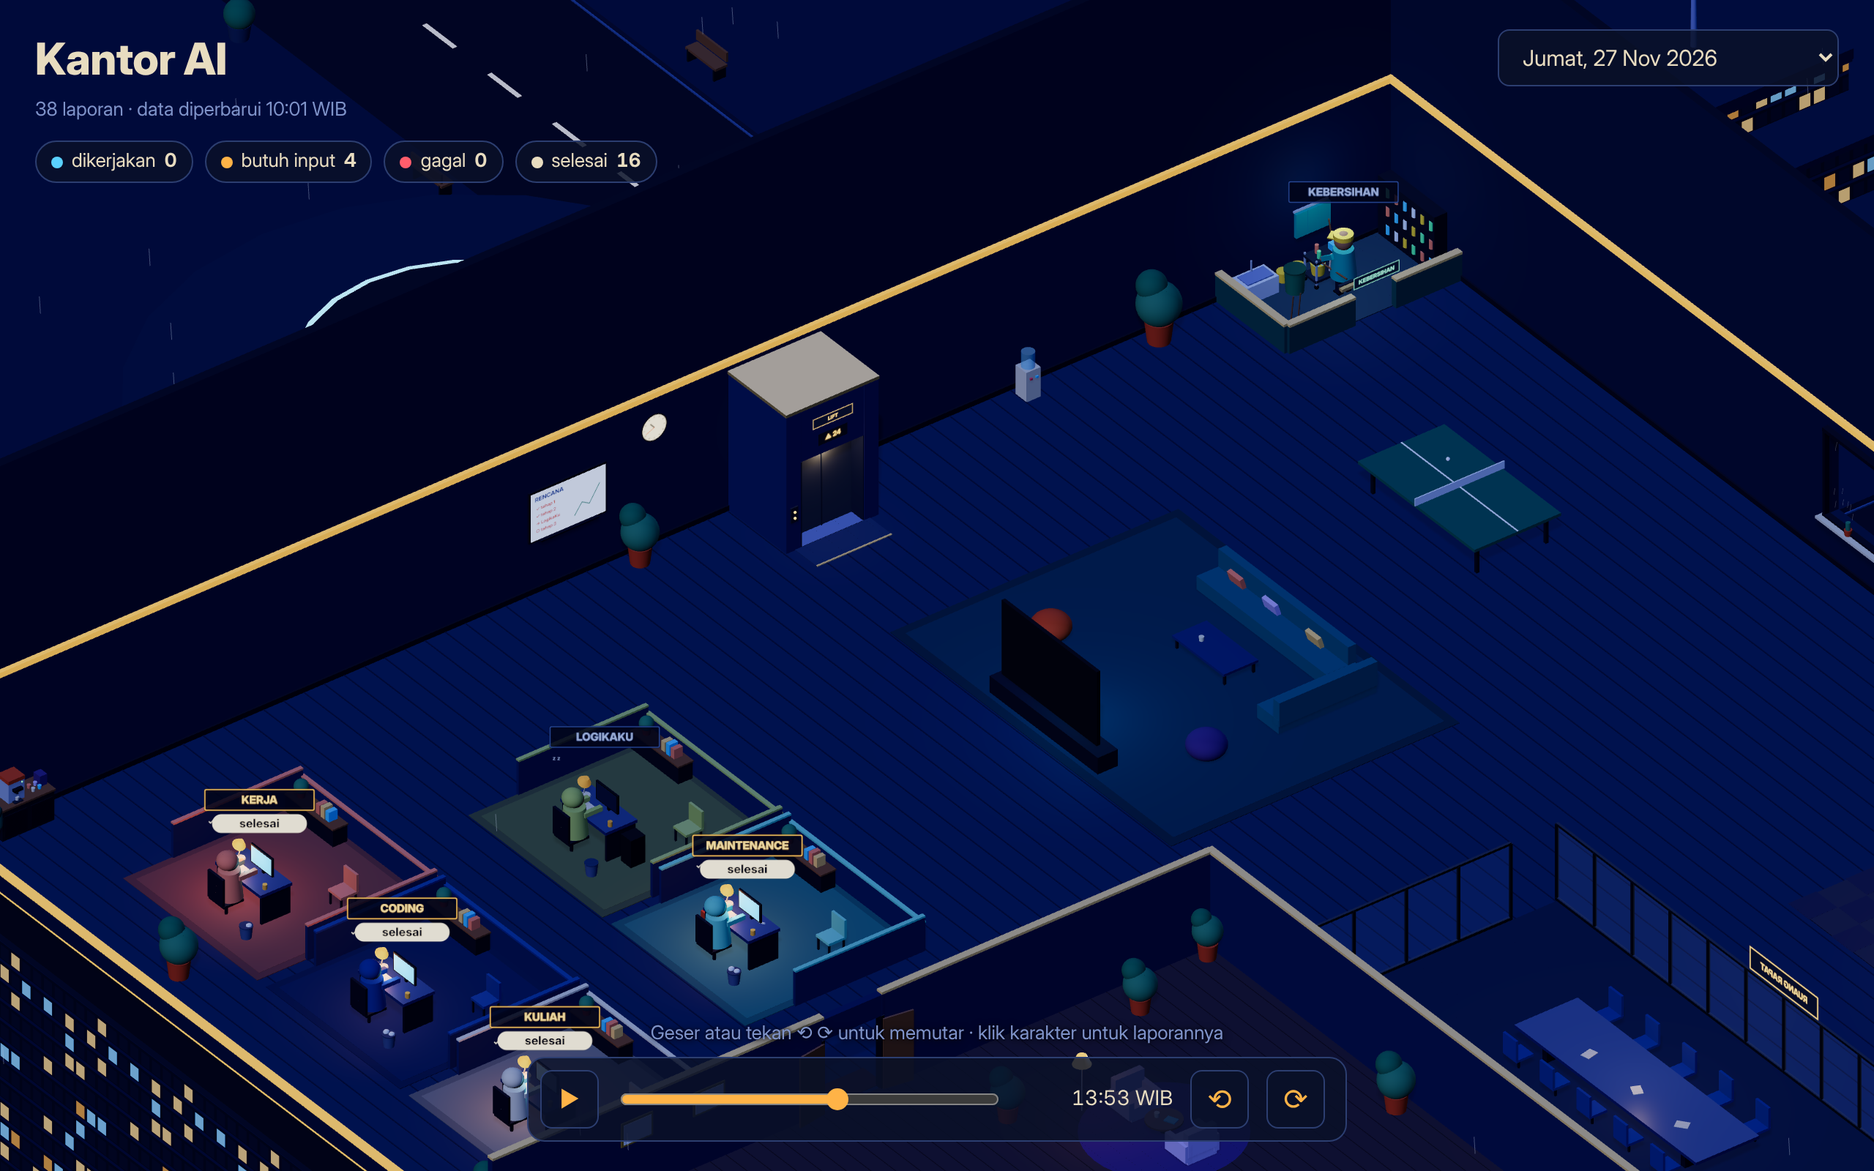
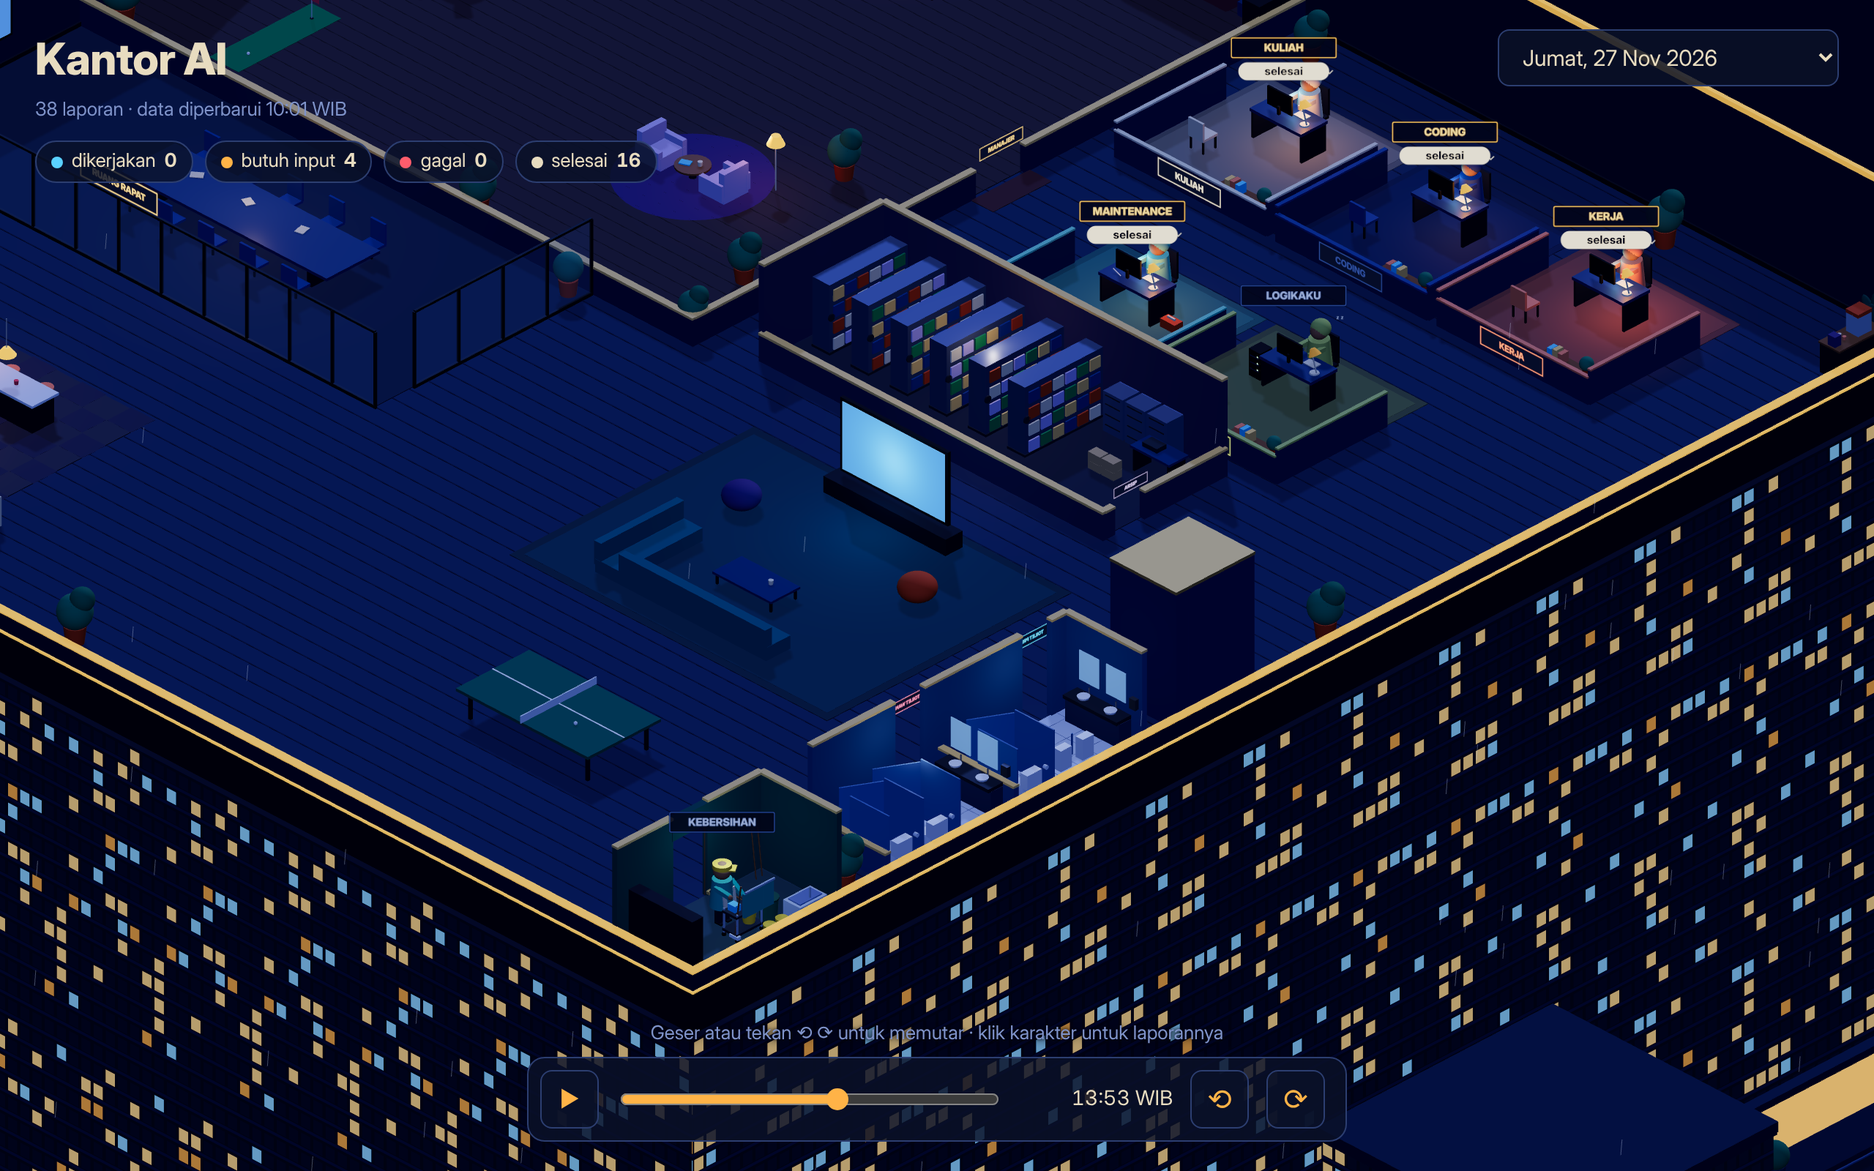
Kantor 3D: ruang arsip, toilet pria dan wanita, kota lebih padat dengan tempat parkir
Claude-Session: https://claude.ai/code/session_01TC1644zEPKkg35o3o8SKGe

diff --git a/kantor/app.js b/kantor/app.js
@@ -179,7 +179,7 @@ function bangunKota(lebar, dalam, dinding, r) {
   bola(0.18, mMerah, 0, 6.1, 0, antena); lampuAtap.push(mMerah);
 
   // ---- jalan: blok 19 x 19 dengan jalan selebar 8 di antaranya
-  const P = 62, N = 3, BATAS = (N + 0.5) * P, B = P - 8; // blok B x B, jalan selebar 8
+  const P = 62, N = 4, BATAS = (N + 0.5) * P, B = P - 8; // blok B x B, jalan selebar 8
   kotak(1000, 1, 1000, mat(0x161d38, { r: 1 }), 0, TANAH - 0.5, 0); // aspal
   const mTrotoar = mat(0x232c4f, { r: 0.95 });
   const mMarka = mat(0xe8dcc0, { e: 0xe8dcc0, ei: 0.25 });
@@ -442,30 +442,103 @@ function bangunKota(lebar, dalam, dinding, r) {
     kotak(4.4, 0.08, 0.6, mTiang, 0, -1.25, 0.3, g, false); // jalan servis
     for (const s of [-1.4, 0, 1.4]) bola(0.1, mLampuJalan, s, 1.3, 0.35, g); // lampu sorot
   }
+  // ---- tempat parkir: aspal, garis petak, mobil terparkir, pos jaga dengan palang, rambu P, lampu
+  const garisParkir = [], mobilParkir = [];
+  const mAspalParkir = mat(0x1c2340, { r: 1 });
+  const tandaP = teksturKanvas(128, 128, (c, w, h) => {
+    c.fillStyle = '#2f6fd6'; c.fillRect(0, 0, w, h);
+    c.strokeStyle = '#ffffff'; c.lineWidth = 8; c.strokeRect(8, 8, w - 16, h - 16);
+    c.fillStyle = '#ffffff'; c.font = `800 92px ${FONT}`; c.textAlign = 'center'; c.textBaseline = 'middle'; c.fillText('P', w / 2, h / 2 + 4);
+  });
+  const mTandaP = new THREE.MeshStandardMaterial({ map: tandaP, emissive: 0xffffff, emissiveMap: tandaP, emissiveIntensity: 0.6, side: THREE.DoubleSide });
+  /** Lahan parkir w x d berpusat di (x, z); baris petak sejajar sumbu x. */
+  function parkir(x, z, w, d) {
+    const y = TANAH + 0.25;
+    kotak(w, 0.05, d, mAspalParkir, x, y + 0.02, z, scene, false).receiveShadow = true;
+    const x0 = x - w / 2 + 2.2, x1 = x + w / 2 - 2.2;
+    let zr = z - d / 2 + 3.2, baris = 0;
+    while (zr + 2.5 < z + d / 2 - 1) {
+      const hadap = baris % 2 === 0 ? 1 : -1; // baris berpasangan saling membelakangi
+      for (let xs = x0; xs <= x1 + 0.01; xs += 2.6) {
+        garisParkir.push([xs, zr, 0.12, 4.8]);
+        if (xs + 2.6 <= x1 + 0.01 && r() < 0.68) mobilParkir.push([xs + 1.3, zr - hadap * 0.2, hadap > 0 ? 0 : Math.PI, warnaMobil[Math.floor(r() * warnaMobil.length)]]);
+      }
+      garisParkir.push([(x0 + x1) / 2, zr - hadap * 2.4, x1 - x0, 0.12]); // garis ujung petak
+      zr += baris % 2 === 0 ? 5 : 6.6; baris++;
+    }
+    // pos jaga dan palang di pintu masuk
+    const px = x + w / 2 - 2, pz = z + d / 2 - 1.6;
+    kotak(1.6, 2.2, 1.4, 0xe8dcc0, px, y + 1.1, pz);
+    kotak(1.8, 0.15, 1.6, 0x2f6fd6, px, y + 2.28, pz);
+    kotak(1.0, 0.7, 0.05, mat(0xfff2d0, { e: 0xfff2d0, ei: 0.8 }), px - 0.2, y + 1.5, pz + 0.72, scene, false);
+    kotak(0.25, 1.0, 0.25, 0x2a3242, px - 1.4, y + 0.5, pz + 0.2);
+    for (let i = 0; i < 6; i++) kotak(0.55, 0.12, 0.12, i % 2 ? 0xffffff : 0xff3b4a, px - 1.7 - i * 0.55, y + 1.0, pz + 0.2, scene, false); // palang
+    // rambu P dan lampu penerang
+    tabung(0.06, 0.06, 3.2, mTiang, x - w / 2 + 1.2, y + 1.6, z + d / 2 - 1.2);
+    const pl = new THREE.Mesh(new THREE.PlaneGeometry(1.1, 1.1), mTandaP); pl.position.set(x - w / 2 + 1.2, y + 3.4, z + d / 2 - 1.15); scene.add(pl);
+    for (const [sx, sz] of [[-0.3, -0.3], [0.3, 0.3], [-0.3, 0.3], [0.3, -0.3]]) {
+      const lx = x + sx * w, lz = z + sz * d;
+      tabung(0.07, 0.09, 5, mTiang, lx, y + 2.5, lz);
+      bola(0.22, mLampuJalan, lx, y + 5.1, lz);
+      const sn = new THREE.Mesh(new THREE.CircleGeometry(3.2, 20), mSinar);
+      sn.rotation.x = -Math.PI / 2; sn.position.set(lx, y + 0.08, lz); scene.add(sn);
+    }
+  }
+
   // blok ritel: dua minimarket di satu sisi, gedung kecil di sisi lain, reklame di pojok
-  const RITEL = new Map([[`1,0`, 0], [`0,1`, 1], [`1,1`, 2], [`-1,0`, 3], [`0,-1`, 4], [`2,-1`, 5], [`-1,2`, 6], [`-2,-2`, 7], [`2,2`, 8], [`-2,1`, 9]]);
+  const RITEL = new Map([[`1,0`, 0], [`0,1`, 1], [`1,1`, 2], [`-1,0`, 3], [`0,-1`, 4], [`2,-1`, 5], [`-1,2`, 6], [`-2,-2`, 7], [`2,2`, 8], [`-2,1`, 9], [`3,0`, 10], [`0,3`, 11], [`-3,-1`, 12]]);
+  // blok yang seluruhnya tempat parkir
+  const PARKIR = new Set([`1,-1`, `-1,1`, `2,0`, `0,2`, `-2,0`, `3,2`, `-3,3`, `2,-3`]);
   for (let i = -N; i <= N; i++) for (let j = -N; j <= N; j++) {
     if (i === 0 && j === 0) continue; // blok menara kantor
     const cx = i * P, cz = j * P;
+    if (PARKIR.has(`${i},${j}`)) { parkir(cx, cz, B - 3, B - 3); continue; }
     if (RITEL.has(`${i},${j}`)) {
       const v = RITEL.get(`${i},${j}`);
       // sisi toko menghadap jalan yang paling dekat kamera bawaan (+x/+z) bila mungkin
       const sx = (v % 2 === 0) ? 1 : -1;
       for (const [i2, dz] of [[0, -14], [1, 0], [2, 14]]) minimarket(cx + sx * (B / 2 - 5), cz + dz, sx, 0, v * 3 + i2);
-      for (const sz of [-1, 1]) gedung(cx - sx * 12, cz + sz * 12, 18 + r() * 4, 18 + r() * 4);
+      // parkir kecil di depan deretan toko, gedung di sisi lain
+      parkir(cx + sx * 4, cz, 13, B - 6);
+      for (const sz of [-1, 1]) gedung(cx - sx * 15, cz + sz * 12, 16 + r() * 3, 18 + r() * 4);
       const pz = v % 3 === 0 ? -1 : 1;
       reklame(cx + sx * (B / 2 - 1.6), cz + pz * (B / 2 - 1.6), Math.atan2(sx, pz), v);
       continue;
     }
     const n = r();
-    if (n < 0.35) gedung(cx, cz, 30 + r() * 10, 30 + r() * 10);
-    else if (n < 0.7) {
-      const sb = r() < 0.5;
-      for (const s of [-1, 1]) gedung(cx + (sb ? s * 13 : 0), cz + (sb ? 0 : s * 13), sb ? 20 : 40, sb ? 40 : 20);
-    } else for (const [sx, sz] of [[-1, -1], [1, -1], [-1, 1], [1, 1]]) {
-      if (r() < 0.8) gedung(cx + sx * 12.5, cz + sz * 12.5, 18 + r() * 4, 18 + r() * 4);
+    if (n < 0.15) gedung(cx, cz, 32 + r() * 8, 32 + r() * 8);
+    else if (n < 0.5) {
+      // dua gedung memanjang, atau satu gedung dan satu lahan parkir
+      const sb = r() < 0.5, lahan = r() < 0.35 ? (r() < 0.5 ? -1 : 1) : 0;
+      for (const s of [-1, 1]) {
+        const gx = cx + (sb ? s * 13 : 0), gz = cz + (sb ? 0 : s * 13);
+        if (s === lahan) parkir(gx, gz, sb ? 24 : 50, sb ? 50 : 24);
+        else gedung(gx, gz, sb ? 20 : 40, sb ? 40 : 20);
+      }
+    } else if (n < 0.8) {
+      for (const [sx, sz] of [[-1, -1], [1, -1], [-1, 1], [1, 1]]) gedung(cx + sx * 12.5, cz + sz * 12.5, 18 + r() * 4, 18 + r() * 4);
+    } else { // enam gedung ramping
+      for (const sx of [-1, 0, 1]) for (const sz of [-1, 1]) gedung(cx + sx * 17, cz + sz * 12.5, 13 + r() * 2, 18 + r() * 4);
     }
   }
+  // garis petak dan mobil terparkir digambar sebagai instance supaya ringan
+  const kerangka = new THREE.Object3D();
+  const iGaris = new THREE.InstancedMesh(new THREE.BoxGeometry(1, 1, 1), mMarka, garisParkir.length);
+  garisParkir.forEach(([gx, gz, w, d], k) => {
+    kerangka.position.set(gx, TANAH + 0.3, gz); kerangka.rotation.set(0, 0, 0); kerangka.scale.set(w, 0.02, d);
+    kerangka.updateMatrix(); iGaris.setMatrixAt(k, kerangka.matrix);
+  });
+  scene.add(iGaris);
+  const iBadan = new THREE.InstancedMesh(new THREE.BoxGeometry(1.0, 0.45, 2.1), mat(0xffffff, { r: 0.5 }), mobilParkir.length);
+  const iKabin = new THREE.InstancedMesh(new THREE.BoxGeometry(0.85, 0.35, 1.1), mat(0x16204a, { r: 0.3 }), mobilParkir.length);
+  const warna = new THREE.Color();
+  mobilParkir.forEach(([mx, mz, rot, w], k) => {
+    kerangka.rotation.set(0, rot, 0); kerangka.scale.set(1, 1, 1);
+    kerangka.position.set(mx, TANAH + 0.27 + 0.42, mz); kerangka.updateMatrix(); iBadan.setMatrixAt(k, kerangka.matrix);
+    iBadan.setColorAt(k, warna.set(w));
+    kerangka.position.set(mx - Math.sin(rot) * 0.1, TANAH + 0.27 + 0.8, mz - Math.cos(rot) * 0.1); kerangka.updateMatrix(); iKabin.setMatrixAt(k, kerangka.matrix);
+  });
+  iBadan.castShadow = true; scene.add(iBadan, iKabin);
 
   let waktuLalin = 0;
   return (dt) => {
@@ -673,7 +746,7 @@ function bangunRuangan(lebar, dalam) {
   const lampuTV = new THREE.PointLight(0x5ad1ff, 3, 7, 1.6); lampuTV.position.set(lx0, 2, lz0 - 2.2); scene.add(lampuTV);
   for (const [dx, w] of [[-3.6, 0x5b3f7a], [3.6, 0xd9532b]]) { const bb = bola(0.6, w, lx0 + dx, 0.45, lz0 - 0.6); bb.scale.set(1, 0.7, 1); }
   // tanaman besar mengisi sudut-sudut kosong
-  for (const [tx, tz, s] of [[RX - 0.6, -1.5, 1], [RX - 0.6, 16.5, 1.2], [-1, RZ - 0.7, 1], [-RX + 0.6, 11, 1.1], [1.5, -RZ + 1.2, 0.9], [RX - 9, -RZ + 1.2, 1]]) {
+  for (const [tx, tz, s] of [[RX - 0.6, -1.5, 1], [RX - 0.6, 18.2, 1.0], [-1, RZ - 0.7, 1], [-RX + 0.6, 11, 1.1], [1.5, -RZ + 1.2, 0.9], [RX - 9, -RZ + 1.2, 1]]) {
     tabung(0.35 * s, 0.28 * s, 0.6 * s, 0xd9532b, tx, 0.3 * s, tz);
     bola(0.55 * s, 0x4f8a6b, tx, 1.05 * s, tz); bola(0.38 * s, 0x3f7a5e, tx + 0.2, 1.5 * s, tz - 0.1);
   }
@@ -686,8 +759,8 @@ function bangunRuangan(lebar, dalam) {
 
   bangunFasilitas(RX, RZ);
 
-  // ---- dispenser air di dinding kanan, dekat ruang santai
-  const dx0 = RX - 0.55, dz0 = 12;
+  // ---- dispenser air di samping pantry
+  const dx0 = -7.3, dz0 = 21.5;
   kotak(0.5, 1.0, 0.5, WARNA.krem, dx0, 0.5, dz0);
   tabung(0.2, 0.2, 0.5, mat(0x7fd6ff, { t: true, op: 0.6, r: 0.2 }), dx0, 1.25, dz0);
   kotak(0.08, 0.06, 0.08, 0xff5d6c, dx0 - 0.26, 0.75, dz0 - 0.1); kotak(0.08, 0.06, 0.08, 0x5ad1ff, dx0 - 0.26, 0.75, dz0 + 0.1);
@@ -727,7 +800,10 @@ function bangunRuangan(lebar, dalam) {
     { x: 2.2, z: RZ - 0.8, arah: 0 }, // jendela depan
     { x: 1.0, z: -13.3, arah: -Math.PI / 2 }, // menengok ke pintu ruang manajer
     { x: 15.5, z: 8.4, arah: Math.PI }, // menonton TV di ruang santai
-    { x: RX - 1.3, z: 12, arah: Math.PI / 2 }, // dispenser
+    { x: -7.0, z: 20.7, arah: 0 }, // dispenser di samping pantry
+    { x: RX - 2.6, z: 7.8, arah: Math.PI / 2 }, // ke toilet pria
+    { x: RX - 2.6, z: 13, arah: Math.PI / 2 }, // ke toilet wanita
+    { x: 12.4, z: -1.8, arah: Math.PI }, // mengambil berkas di ruang arsip
     { x: LORONG_X, z: 1.6, arah: Math.PI / 2 }, // papan tulis dari jauh
     { x: -13, z: 14.8, arah: 0 }, // ngemil di meja bar pantry
     { x: -23.4, z: 23.2, arah: -Math.PI / 2 }, // memilih buku di perpustakaan
@@ -845,23 +921,37 @@ function rakBuku(cx, cz, panjang, sepanjangZ, muka, tingkatan = 4, warnaRak = 0x
 }
 
 /**
- * Ruangan bertembok: setiap bentang [ax, az, bx, bz] (sejajar sumbu) dibangun dua
- * versi, penuh dan pendek. Versi pendek tampil saat potong() bernilai true, yaitu
- * saat kamera ada di sisi luar tembok, sama seperti dinding luar gedung.
+ * Pasangan grup {penuh, pendek} yang ikut dipotong seperti tembok di bidang
+ * sumbu = nilai: versi pendek tampil saat kamera ada di sisi luar (arah tanda).
  */
-function ruangBertembok(bentang, potong, T = 3.2, TP = 0.9, warna = 0x2b3360) {
-  const mTembok = mat(warna, { r: 0.9 }), mList = mat(0xffcf7a, { r: 0.5 });
+function grupPotong(sumbu, nilai, tanda) {
   const penuh = new THREE.Group(), pendek = new THREE.Group(); scene.add(penuh, pendek);
-  for (const [ax, az, bx, bz] of bentang) {
+  dindingDalam.push(() => {
+    const c = sumbu === 'x' ? kamera.position.x : kamera.position.z;
+    const p = (c - nilai) * tanda > 0; penuh.visible = !p; pendek.visible = p;
+  });
+  return { penuh, pendek };
+}
+
+/**
+ * Ruangan bertembok: setiap bentang [ax, az, bx, bz, tanda?] (sejajar sumbu)
+ * dibangun dua versi, penuh dan pendek. Setiap tembok dipotong pendek sendiri-sendiri
+ * saat kamera ada di sisi luarnya (sisi yang menjauhi pusat ruangan, atau arah tanda),
+ * sama seperti dinding luar gedung, jadi isi ruangan selalu terlihat.
+ */
+function ruangBertembok(bentang, pusat, T = 3.2, TP = 0.9, warna = 0x2b3360) {
+  const mTembok = mat(warna, { r: 0.9 }), mList = mat(0xffcf7a, { r: 0.5 });
+  for (const [ax, az, bx, bz, tanda] of bentang) {
     const panjang = Math.hypot(bx - ax, bz - az), cx = (ax + bx) / 2, cz = (az + bz) / 2, sepanjangX = az === bz;
+    const sumbu = sepanjangX ? 'z' : 'x', nilai = sepanjangX ? az : ax;
+    const g = grupPotong(sumbu, nilai, tanda ?? Math.sign(nilai - (sepanjangX ? pusat.z : pusat.x)));
     const w = sepanjangX ? panjang : 0.2, d = sepanjangX ? 0.2 : panjang;
-    for (const [grup, h] of [[penuh, T], [pendek, TP]]) {
+    for (const [grup, h] of [[g.penuh, T], [g.pendek, TP]]) {
       kotak(w, h, d, mTembok, cx, h / 2, cz, grup);
       kotak(w + (sepanjangX ? 0 : 0.04), 0.08, d + (sepanjangX ? 0.04 : 0), mList, cx, h + 0.04, cz, grup, false);
     }
   }
-  dindingDalam.push(() => { const p = potong(); penuh.visible = !p; pendek.visible = p; });
-  return { penuh, pendek, mTembok, T, TP };
+  return { mTembok, T, TP };
 }
 
 /** Lukisan abstrak berbingkai, menghadap arah rotY. */
@@ -1006,7 +1096,8 @@ function bangunFasilitas(RX, RZ) {
   kotak(k0.x1 - k0.x0 - 0.1, 0.03, k0.z1 - k0.z0 - 0.1, mat(0x2f4a52, { r: 0.6 }), (k0.x0 + k0.x1) / 2, 0.02, (k0.z0 + k0.z1) / 2, scene, false).receiveShadow = true;
   const rk = ruangBertembok([
     [k0.x0, k0.z0, k0.x0, kp - 0.7], [k0.x0, kp + 0.7, k0.x0, k0.z1], [k0.x0, k0.z0, k0.x1, k0.z0],
-  ], () => kamera.position.x < k0.x0 || kamera.position.z < k0.z0, 3.2, 0.9, 0x2f5e5a);
+  ], { x: (k0.x0 + k0.x1) / 2, z: (k0.z0 + k0.z1) / 2 }, 3.2, 0.9, 0x2f5e5a);
+  Object.assign(rk, grupPotong('x', k0.x0, -1)); // pintu ikut tembok kiri ruangan
   kotak(0.24, 0.7, 1.5, rk.mTembok, k0.x0, 2.85, kp, rk.penuh); // ambang atas pintu
   const daunK = new THREE.Group(); daunK.position.set(k0.x0, 0, kp - 0.7); daunK.rotation.y = -(Math.PI - 0.15); rk.penuh.add(daunK);
   kotak(0.06, 2.4, 1.36, 0x8a5a3c, 0, 1.2, 0.68, daunK); // daun pintu terbuka ke luar, terlipat rapat ke tembok
@@ -1029,6 +1120,98 @@ function bangunFasilitas(RX, RZ) {
   for (const dz of [-0.35, 0.05, 0.4]) kotak(0.1, 0.8, 0.45, 0x3fa69a, k0.x1 - 0.2, 1.55, k0.z0 + 3.1 + dz);
   for (const dz of [0.0, 0.25]) { const sp = tabung(0.02, 0.02, 1.6, 0x8a5a3c, k0.x0 + 0.35, 0.8, k0.z0 + 0.4 + dz); sp.rotation.z = 0.12; }
   const lampuK = new THREE.PointLight(0xbff0ff, 1.6, 6, 1.6); lampuK.position.set((k0.x0 + k0.x1) / 2, 2.6, (k0.z0 + k0.z1) / 2); scene.add(lampuK);
+
+  // ---- toilet pria dan wanita di dinding kanan, di antara ruang lift dan ruang kebersihan
+  const t0 = { x0: RX - 3.2, x1: RX, z0: 6.5, z1: 17 }, tm = (t0.z0 + t0.z1) / 2;
+  const pintuT = [{ z: 7.8, nama: 'TOILET PRIA', warna: '#5ad1ff' }, { z: 13, nama: 'TOILET WANITA', warna: '#ff8fb0' }];
+  kotak(t0.x1 - t0.x0 - 0.1, 0.03, t0.z1 - t0.z0 - 0.1, mat(0xc8d2e6, { r: 0.4 }), (t0.x0 + t0.x1) / 2, 0.02, tm, scene, false).receiveShadow = true;
+  for (let x = t0.x0 + 0.5; x < t0.x1; x += 0.8) kotak(0.02, 0.006, t0.z1 - t0.z0 - 0.2, 0x9aa6c0, x, 0.04, tm, scene, false); // nat ubin
+  for (let z = t0.z0 + 0.5; z < t0.z1; z += 0.8) kotak(t0.x1 - t0.x0 - 0.2, 0.006, 0.02, 0x9aa6c0, (t0.x0 + t0.x1) / 2, 0.04, z, scene, false);
+  ruangBertembok([
+    [t0.x0, t0.z0, t0.x1, t0.z0], [t0.x0, t0.z1, t0.x1, t0.z1], [t0.x0, tm, t0.x1, tm, 1],
+    [t0.x0, t0.z0, t0.x0, pintuT[0].z - 0.6], [t0.x0, pintuT[0].z + 0.6, t0.x0, pintuT[1].z - 0.6], [t0.x0, pintuT[1].z + 0.6, t0.x0, t0.z1],
+  ], { x: (t0.x0 + t0.x1) / 2, z: tm }, 3.2, 0.9, 0x3a5f8a);
+  const gt = grupPotong('x', t0.x0, -1);
+  for (const pt of pintuT) for (const [grup, y] of [[gt.penuh, 2.85], [gt.pendek, 1.45]]) {
+    const pl = papanNama(pt.nama, 1.7, t0.x0 - 0.13, y, pt.z, -Math.PI / 2, pt.warna); scene.remove(pl); grup.add(pl);
+  }
+  const mPorselen = mat(0xf2f5fb, { r: 0.25 }), mKrom = mat(0xd8dde8, { r: 0.2, m: 0.9 });
+  const mCermin = mat(0xbfe6ff, { e: 0x7fb7ff, ei: 0.35, r: 0.05, m: 0.6 });
+  /** Kloset duduk menghadap -x dengan tangki di dinding kanan. */
+  function kloset(x, z) {
+    kotak(0.3, 0.5, 0.6, mPorselen, x + 0.3, 0.75, z); // tangki
+    tabung(0.2, 0.16, 0.4, mPorselen, x - 0.1, 0.2, z);
+    tabung(0.24, 0.24, 0.06, mPorselen, x - 0.12, 0.42, z);
+  }
+  /** Bilik toilet: sekat di sisi -z dan +z, pintu terbuka sedikit di sisi -x. */
+  function bilik(za, zb) {
+    const mSekat = mat(0x5a7fb0, { r: 0.6 });
+    for (const zz of [za, zb]) kotak(1.6, 2.0, 0.05, mSekat, t0.x1 - 0.85, 1.15, zz);
+    const daun = new THREE.Group(); daun.position.set(t0.x1 - 1.65, 0, za); daun.rotation.y = -0.5; scene.add(daun);
+    kotak(0.05, 1.9, zb - za - 0.05, mSekat, 0, 1.1, (zb - za) / 2, daun);
+    kloset(t0.x1 - 0.55, (za + zb) / 2);
+    tabung(0.07, 0.07, 0.12, 0xe8eef8, t0.x1 - 0.1, 1.0, (za + zb) / 2 - 0.45).rotation.z = Math.PI / 2; // tisu
+  }
+  /** Meja wastafel menempel tembok sejajar sumbu x di z = zw (tanda: arah muka). */
+  function wastafel(zw, tanda, n) {
+    const zc = zw + tanda * 0.35;
+    kotak(2.2, 0.12, 0.6, mat(0x2a3242, { r: 0.4 }), t0.x0 + 1.7, 0.92, zc);
+    kotak(2.2, 0.8, 0.5, mat(0x3a4566, { r: 0.7 }), t0.x0 + 1.7, 0.45, zc - tanda * 0.05);
+    for (let i = 0; i < n; i++) {
+      const sx = t0.x0 + 1.15 + i * 1.1;
+      tabung(0.2, 0.15, 0.12, mPorselen, sx, 0.99, zc);
+      tabung(0.025, 0.025, 0.25, mKrom, sx, 1.1, zw + tanda * 0.12);
+      kotak(0.8, 1.0, 0.03, mCermin, sx, 1.85, zw + tanda * 0.12, scene, false); // cermin
+    }
+    kotak(0.25, 0.35, 0.15, mKrom, t0.x0 + 3.0, 1.5, zw + tanda * 0.14); // pengering tangan
+  }
+  // pria: wastafel di dinding belakang, dua urinoir di dinding kanan, satu bilik
+  wastafel(t0.z0 + 0.1, 1, 2);
+  for (const uz of [8.7, 9.6]) {
+    kotak(0.3, 0.7, 0.45, mPorselen, t0.x1 - 0.25, 0.9, uz);
+    kotak(0.03, 0.7, 0.05, mat(0x5a7fb0), t0.x1 - 0.35, 1.1, uz + 0.42); // sekat urinoir
+  }
+  bilik(10.15, tm - 0.1);
+  // wanita: wastafel di dinding pemisah, dua bilik di ujung depan
+  wastafel(tm + 0.1, 1, 2);
+  bilik(14.0, 15.5);
+  bilik(15.5, t0.z1 - 0.1);
+  for (const pt of pintuT) { const lt = new THREE.PointLight(0xe8f4ff, 1.4, 5, 1.6); lt.position.set(t0.x0 + 1.6, 2.6, pt.z + 1.2); scene.add(lt); }
+  tanamanBesar(t0.x0 + 0.45, t0.z1 - 0.5, 0.6);
+
+  // ---- ruang arsip di antara area departemen dan ruang santai
+  const a0 = { x0: 2, x1: 16, z0: -5.8, z1: -0.8 }, ap = -1.8; // ap = tengah pintu di tembok kanan
+  kotak(a0.x1 - a0.x0 - 0.1, 0.03, a0.z1 - a0.z0 - 0.1, mat(0x2a2f48, { r: 0.8 }), (a0.x0 + a0.x1) / 2, 0.02, (a0.z0 + a0.z1) / 2, scene, false).receiveShadow = true;
+  ruangBertembok([
+    [a0.x0, a0.z0, a0.x1, a0.z0], [a0.x0, a0.z1, a0.x1 + 0.1, a0.z1], [a0.x0, a0.z0, a0.x0, a0.z1],
+    [a0.x1, a0.z0, a0.x1, ap - 0.6], [a0.x1, ap + 0.6, a0.x1, a0.z1],
+  ], { x: (a0.x0 + a0.x1) / 2, z: (a0.z0 + a0.z1) / 2 }, 3.2, 0.9, 0x4a3f66);
+  const ga = grupPotong('x', a0.x1, 1);
+  for (const [grup, y] of [[ga.penuh, 2.85], [ga.pendek, 1.45]]) {
+    const pl = papanNama('ARSIP', 1.4, a0.x1 + 0.13, y, ap, Math.PI / 2, '#c9b9e8'); scene.remove(pl); grup.add(pl);
+  }
+  // rak arsip bergerak (roll o pack) berjajar, berisi map dan kotak arsip
+  const warnaMap = [0xd9532b, 0x3a4f8a, 0xffcf7a, 0x3f9a5e, 0xc9b9e8, 0xe8dcc0];
+  for (let i = 0; i < 6; i++) {
+    const rx = a0.x0 + 0.9 + i * 1.6;
+    kotak(0.7, 2.4, 3.2, mat(0x6a7699, { r: 0.5, m: 0.5 }), rx, 1.2, a0.z0 + 1.85);
+    kotak(0.74, 0.12, 3.24, 0x2a3242, rx, 0.06, a0.z0 + 1.85, scene, false); // rel
+    tabung(0.12, 0.12, 0.05, 0x2a3242, rx + 0.38, 1.3, a0.z1 - 1.6).rotation.z = Math.PI / 2; // roda putar
+    for (let t = 0; t < 4; t++) for (let k = 0; k < 6; k++) {
+      kotak(0.08, 0.38, 0.42, warnaMap[(i + t + k) % warnaMap.length], rx + 0.36, 0.35 + t * 0.55, a0.z0 + 0.6 + k * 0.5, scene, false);
+    }
+  }
+  // lemari arsip besi berlaci dan meja pemindai
+  for (let i = 0; i < 3; i++) {
+    const lx = a0.x1 - 3.8 + i * 0.9;
+    kotak(0.8, 1.4, 0.7, mat(0x8a96c0, { r: 0.4, m: 0.6 }), lx, 0.7, a0.z0 + 0.45);
+    for (const dy of [0.3, 0.65, 1.0, 1.3]) kotak(0.6, 0.04, 0.02, 0x2a3242, lx, dy, a0.z0 + 0.81, scene, false);
+  }
+  kotak(1.6, 0.08, 0.8, WARNA.meja, a0.x1 - 1.3, 0.85, a0.z0 + 1.4);
+  for (const dx of [-0.7, 0.7]) kotak(0.06, 0.8, 0.7, WARNA.gelap, a0.x1 - 1.3 + dx, 0.42, a0.z0 + 1.4);
+  kotak(0.6, 0.15, 0.4, 0x2a3242, a0.x1 - 1.5, 0.97, a0.z0 + 1.4); // pemindai
+  for (let i = 0; i < 4; i++) kotak(0.5, 0.3, 0.35, 0xc8a878, a0.x1 - 2.8 + (i % 2) * 0.55, 0.15 + Math.floor(i / 2) * 0.3, a0.z0 + 2.4); // kardus arsip
+  const lampuArsip = new THREE.PointLight(0xffe8c0, 1.6, 9, 1.6); lampuArsip.position.set((a0.x0 + a0.x1) / 2, 2.8, (a0.z0 + a0.z1) / 2); scene.add(lampuArsip);
 }
 
 // ---------------------------------------------------------------- ruang manajer
@@ -1049,8 +1232,9 @@ function bangunRuangManajer(r, meja) {
   const LP = 2.0; // lebar bukaan pintu ganda
   const rm = ruangBertembok([
     [x0, z1, x1 + 0.1, z1], [x1, z0, x1, pintu.z - LP / 2], [x1, pintu.z + LP / 2, x1, z1],
-  ], () => kamera.position.z > z1 || kamera.position.x > x1);
-  const { penuh, pendek, T, TP } = rm;
+  ], { x: (x0 + x1) / 2, z: (z0 + z1) / 2 });
+  const { T, TP } = rm;
+  const { penuh, pendek } = grupPotong('x', x1, 1); // pintu, papan nama, dan piagam ikut tembok kanan
   kotak(0.24, T - 2.5, LP + 0.1, rm.mTembok, x1, 2.5 + (T - 2.5) / 2, pintu.z, penuh); // ambang atas pintu
   for (const s of [-1, 1]) kotak(0.26, 2.5, 0.1, mRangka, x1, 1.25, pintu.z + s * (LP / 2 + 0.03), penuh, false); // kusen
   // dua daun pintu kayu, terbuka ke dalam dan terlipat rapat ke tembok supaya jalan tetap lapang
